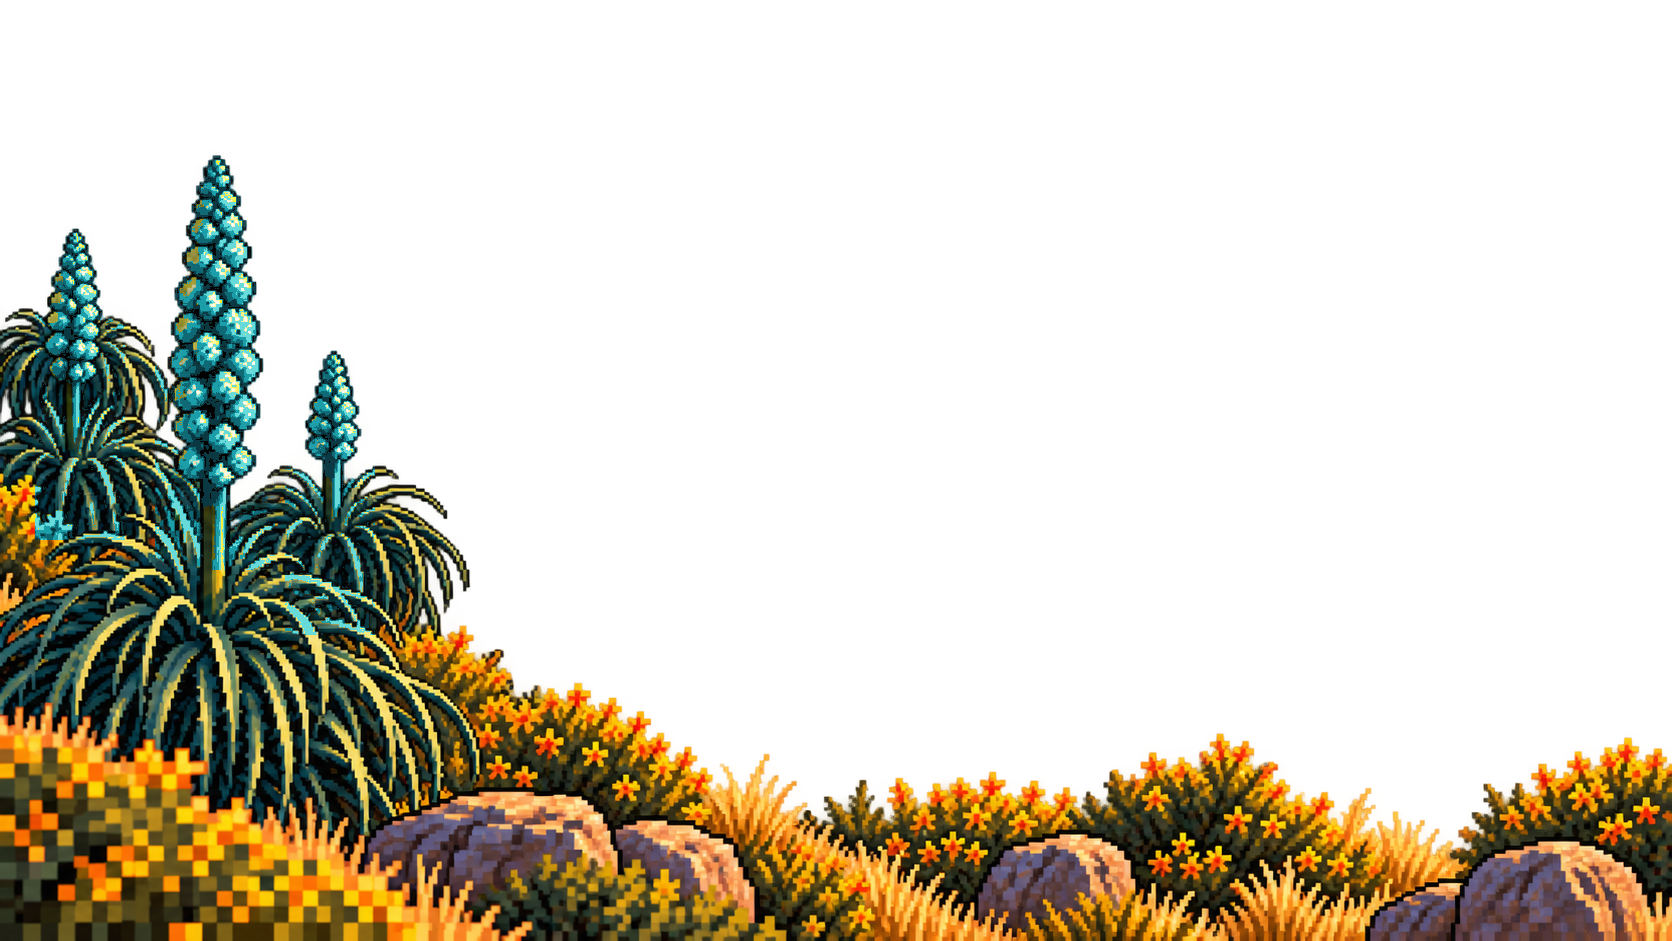
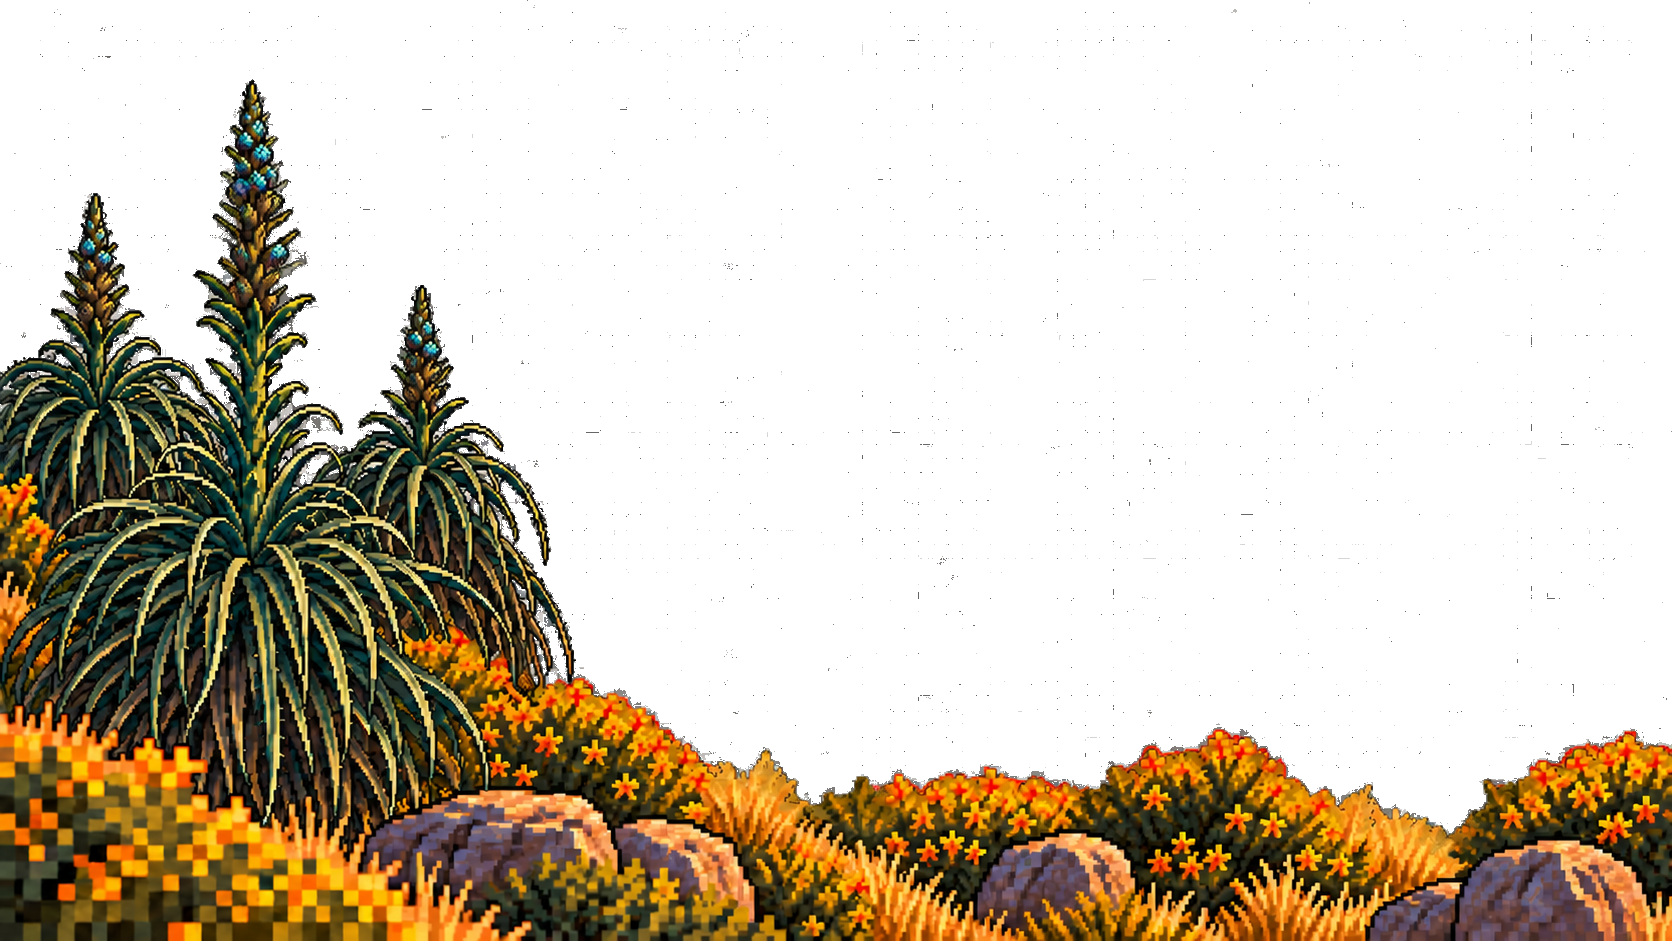
Refine chagual foreground layer

Changed region(s): [[0.0, 0.0925, 1.0, 1.0], [0.0933, 0.9862, 0.1244, 1.0]]

diff --git a/docs/ART_STYLE_GUIDE.md b/docs/ART_STYLE_GUIDE.md
@@ -20,7 +20,7 @@ El lenguaje facial base usa dos ojos pequeños, simples y expresivos, inspirado 
 
 La expresividad debe surgir de la inclinación de la hoja, el movimiento del tallo, la posición de los ojos y la interacción con sus frutos o flores.
 
-En los chaguales (Puya), las hojas deben ser largas, muy delgadas, espinosas y caídas. La floración se representa en la punta de un escapo alto como un racimo compacto azul-turquesa, afinado y alargado, con silueta de “cola de zorro”; no usar espigas blancas genéricas.
+En los chaguales (Puya), las hojas deben ser largas, muy delgadas, espinosas y caídas. La floración se representa en la punta de un escapo alto como un racimo afinado y alargado, de estructura mayormente leñosa y silueta de “cola de zorro”; los pétalos azul-turquesa deben ser pequeños acentos, nunca una masa cian dominante. No usar espigas blancas genéricas.
 
 ## Movimiento y flotación
 

diff --git a/docs/assets/backgrounds/README.md b/docs/assets/backgrounds/README.md
@@ -7,7 +7,7 @@ Estas capas forman el primer escenario ambiental reutilizable de Arboris. Todas 
 1. `parallax/00-sky.png` — cielo base opaco con franjas horizontales.
 2. `parallax/01-background.png` — cordillera, nubes y valle lejano.
 3. `parallax/02-midground.png` — ladera, ciudad, sendero y vegetación intermedia.
-4. `parallax/03-foreground.png` — rocas, flores, pastos y chaguales cercanos. Los chaguales usan hojas finas, caídas y floración azul-turquesa en racimos terminales tipo “cola de zorro”.
+4. `parallax/03-foreground.png` — rocas, flores, pastos y chaguales cercanos. Los chaguales usan hojas finas, caídas y una inflorescencia terminal mayormente leñosa; sus pétalos azul-turquesa aparecen solo como pequeños acentos en un racimo tipo “cola de zorro”.
 
 ## Prueba de desplazamiento
 
